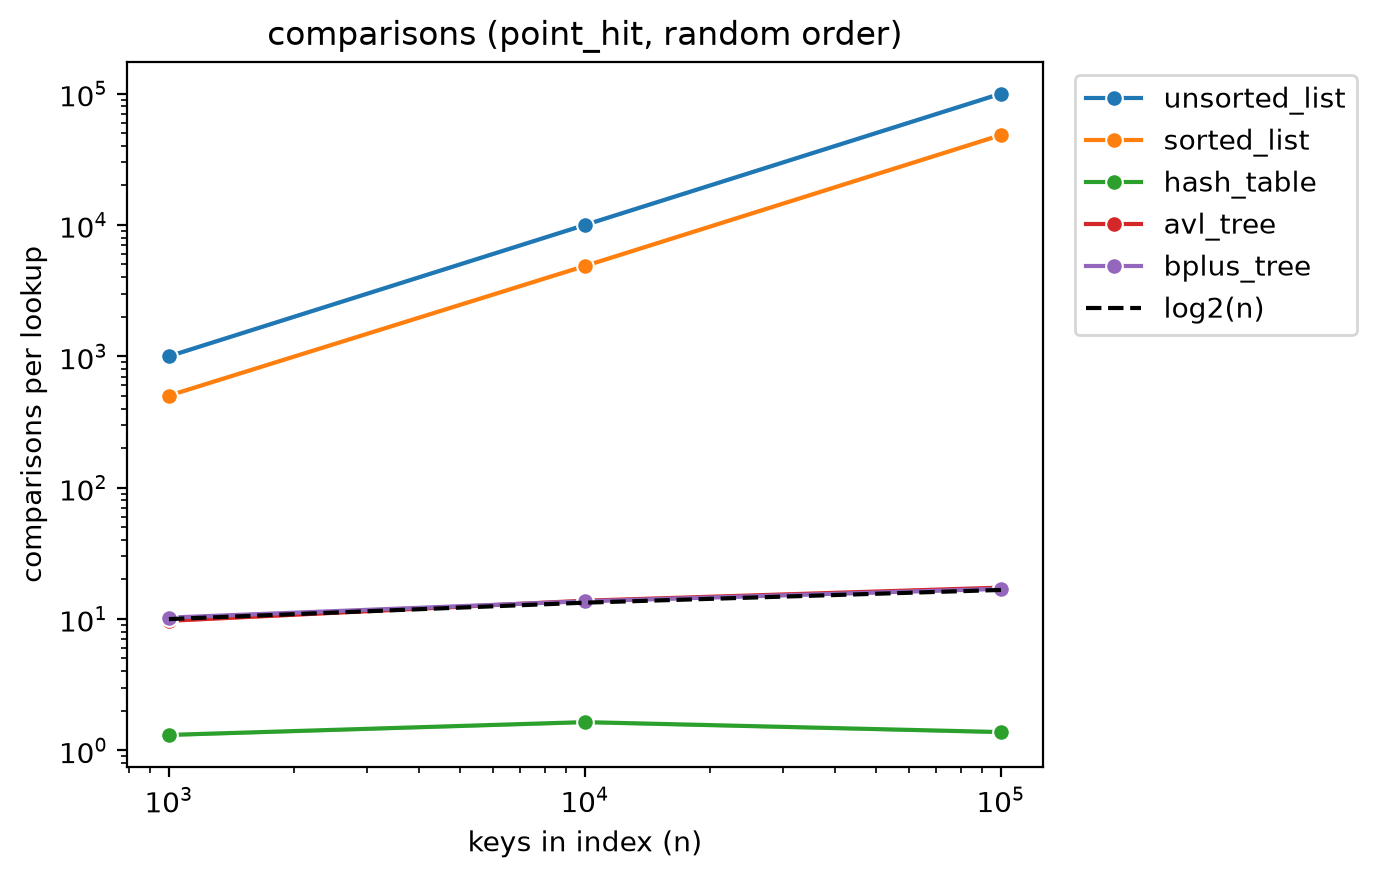
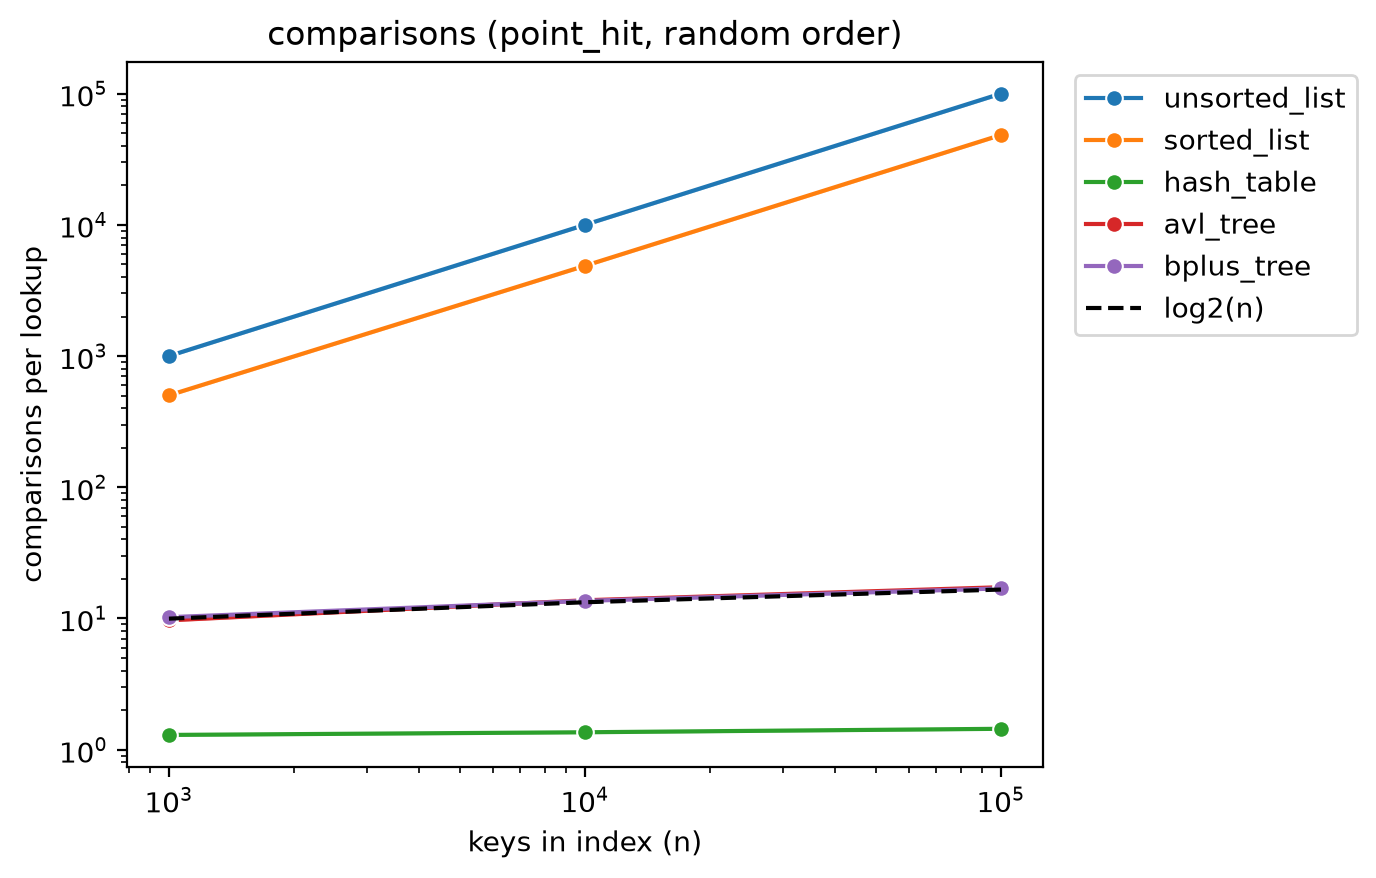
Add INC-04 (sorted list search); update INC-02 with nearly sorted rerun

diff --git a/incident_reports/INC-04.md b/incident_reports/INC-04.md
@@ -1,0 +1,56 @@
+# INC-04: Sorted list search scans linearly instead of using binary search
+
+## Summary
+
+In `indexes/sorted_list.py`, the `search` method walked the list from the first key and compared each key in turn, even though the keys are sorted and the class already has a binary search, `_bisect_left`, that `insert` and `range_search` use. A point lookup therefore cost about n/2 comparisons (48,390 at n = 100,000) instead of about log2(n) (16.7), and took about 3.6 milliseconds per lookup at that size, as slow as the unsorted list. Replacing the loop with a call to `_bisect_left` fixed it: lookups now take 16.69 comparisons and about 3 to 4 microseconds at n = 100,000, roughly 1,000 times faster. Results were correct before and after, which is why the tests did not notice.
+
+## Detection
+
+Experiment E5 (insert order), in the point-lookup plot and the counters plot. On the log-log point-lookup plot, the `sorted_list` line rose together with `unsorted_list`: about 70 microseconds at n = 1,000, about 360 at n = 10,000 and about 3,700 at n = 100,000, a slope of about 1. The reference `ref_bisect`, which does the same job with Python's C-backed binary search, stayed near 0.5 to 1 microsecond. The `comparisons` plot then showed why: the `sorted_list` line ran at about n/2 comparisons per lookup, while AVL tree and B+ tree sat on the dashed log2(n) line.
+
+## Expected vs. observed
+
+Theory: binary search over a sorted array costs O(log n), about log2(n) comparisons per lookup: 10.0, 13.3 and 16.6 at n = 1,000, 10,000 and 100,000.
+
+Observed on the original code (E5, code `9174a5c`, point lookups that all hit, median over 5 replicates), identical in all four insert orders because the list is sorted whatever order the keys arrive in:
+
+- n = 1,000: 501.92 comparisons per lookup, about 65 to 79 microseconds
+- n = 10,000: 4,872.87 comparisons per lookup, about 355 microseconds
+- n = 100,000: 48,390.08 comparisons per lookup, about 3,580 to 3,680 microseconds
+
+That is about n/2 comparisons, the average position of a key that is present, so the lookup was a linear scan.
+
+## Evidence
+
+- Counters plot, comparisons per lookup against n with the log2(n) line, before the fix (random order): ![comparisons per lookup before the fix](../analysis/e5_countervstiming_comparisons.png)
+- Table of lookup time and comparisons per lookup, before (`9174a5c`) and after (`23e3aa3`) the fix, for every insert order and size: ![sorted list point lookups before and after](../analysis/e5_sorted_list_pointlookups.png)
+- Machine `saariya-mbp`. The `sorted_list.py` file is the original in `9174a5c`, since the earlier fixes touched other files.
+
+## Root cause
+
+File `indexes/sorted_list.py`, method `search` (about lines 53 to 65).
+
+`search` looped over `self._keys` with `enumerate`, counting a comparison for each key, and returned when the key matched. The comment above it says that because the keys are sorted it can stop once it has passed the place where the key would be, and the loop has a `break` for that. That is true, but it only helps a lookup for a missing key near the front: a lookup for a key that is present still examines every key before it, so it costs its position in the list, about n/2 on average.
+
+The class already has `_bisect_left`, which finds the position in about log2(n) steps, and `insert` and `range_search` both use it. Only `search` did not. The answers were correct, only slow, and the class docstring even claims the list is searched with binary search, so reading the code quickly would not reveal the problem.
+
+## Fix
+
+Commit `23e3aa3`, "Fix sorted list search: use binary search instead of a linear scan". The loop in `search` is replaced by one call to `_bisect_left` to find the position where the key would be, followed by one check whether the key stored at that position is the one asked for; if it is, `search` returns its values, otherwise it returns an empty list. Nothing else in the file changed.
+
+## Verification
+
+Same experiment (E5), same machine, same seeds, two code versions: `9174a5c` (before) and `23e3aa3` (after), shown in the table image above. Median over 5 replicates, at n = 1,000 / 10,000 / 100,000:
+
+- Comparisons per lookup: 501.92 / 4,872.87 / 48,390.08 before, and 9.98 / 13.34 / 16.69 after. The after values match log2(n) (10.0, 13.3, 16.6), in every insert order.
+- Time per lookup: about 65 to 79 / 355 / 3,580 to 3,680 microseconds before, and about 1.5 / 2.0 / 3.1 to 3.8 microseconds after.
+
+At n = 100,000 the lookup is about 960 to 1,190 times faster depending on the insert order (nearly sorted 1,190x, random 1,120x, reversed 1,110x, sorted 960x), and the time per lookup now grows only from about 1.5 to about 3.2 microseconds over a hundredfold increase in n, as an O(log n) structure should. `make test` still passes (168 passed, 3 skipped).
+
+## Impact on recommendations
+
+With the bug, the sorted list looked exactly as slow as the unsorted list for point lookups (both linear), so it would have been ranked with the unsorted list and dismissed for the point-lookup feature (F1). After the fix its lookups cost about the same order as the trees (log n) and are only a few microseconds at n = 100,000. The trade-off that the bug was hiding is unchanged by the fix: inserting into the middle of a Python list shifts every later key, so building a sorted list from random or reversed input still costs more per insert as n grows, while the trees and the hash table do not. So after the fix the sorted list is a competitive choice for point lookups and ranges on data that is loaded once and read many times, but not for workloads that insert heavily. This should be checked against the F1 and F3 recommendations once the final runs are in.
+
+## Why the tests didn't catch it
+
+The tests check that `search` returns the right values, and the linear scan does. The bug affects only how many comparisons and how much time a lookup takes. A test that would catch it: build a sorted list of several thousand keys, reset the statistics, look up a key and assert that the number of comparisons is at most about 2 x log2(n), not n/2.

diff --git a/incident_reports/INC-02.md b/incident_reports/INC-02.md
@@ -2,7 +2,7 @@
 
 ## Summary
 
-In `indexes/avl_tree.py`, both rotation functions refreshed node heights in the wrong order, so the stored heights were too large. As a result the AVL tree performed about 10 to 15 rotations per insert instead of about 1, and it grew taller than a valid AVL tree can be (height 26 for 100,000 keys, against a limit of about 24). Lookups still returned correct results, which is why the tests did not notice. Swapping two `_update_height` calls in each rotation fixed it: rotations per insert dropped to about 0.7 to 1.2 and the height to 17 to 20. Build time per insert at n = 100,000 improved for random (1.9x), reversed (1.3x) and sorted (1.4x) input; nearly sorted input measured slower in this run (see Verification), which I attribute to timing noise but have not yet confirmed.
+In `indexes/avl_tree.py`, both rotation functions refreshed node heights in the wrong order, so the stored heights were too large. As a result the AVL tree performed about 10 to 15 rotations per insert instead of about 1, and it grew taller than a valid AVL tree can be (height 26 for 100,000 keys, against a limit of about 24). Lookups still returned correct results, which is why the tests did not notice. Swapping two `_update_height` calls in each rotation fixed it: rotations per insert dropped to about 0.7 to 1.2 and the height to 17 to 20. Build time per insert at n = 100,000 improved for random (1.9x), reversed (1.3x) and sorted (1.4x) input, and nearly sorted input improved by about 1.3x once an outlier in the first post-fix run is accounted for (see Verification).
 
 ## Detection
 
@@ -55,13 +55,13 @@ Same experiment (E5), same machine, same seeds, two code versions: `9e83b18` (be
 | sorted | 21 | 17 | 11.39 | 1.0 |
 | reversed | 21 | 17 | 11.39 | 1.0 |
 
-Figure (after the fix): ![AVL counters after the fix](../analysis/e5_avl_post-fix.png)
+Figure (after the fix): ![AVL counters after the fix](../analysis/avl_after_fix.png)
 
 Rotations fell by a factor of 9 to 21, and every height is now below the bound of about 24. For sorted and reversed input the height is 17, which is the minimum possible for 100,000 keys, so those trees are perfectly balanced. The B+ tree rows did not change, as expected, since only `avl_tree.py` was modified. `make test` still passes (168 passed, 3 skipped).
 
 Build time per insert at n = 100,000 (median microseconds, 5 replicates), before (`9e83b18`) and after (`7124e22`): ![AVL build time before and after](../analysis/timings_avl_after.png). The data is also in `analysis/timings_avl_after.csv`.
 
-Three of the four orders got faster, as the lower rotation count predicts. Nearly sorted input measured about 2.7 times slower, which the counters do not explain: its rotations per op (1.2) and comparisons per op (17.2) are only slightly above the other orders, so they cannot account for a fourfold increase in time. Timing on a laptop is noisy, and the whole after-fix E5 run took 454 s against 355 s for the first run, which suggests the machine was busier or hotter during the second run. I therefore do not treat the nearly sorted slowdown as a regression, but I have not confirmed that. The final E5 rerun on a quiet machine will re-measure it; the deterministic counters above are the primary evidence for the fix.
+Three of the four orders got faster in the first run after the fix, as the lower rotation count predicts. Nearly sorted input measured about 2.7 times slower in that run (36.69 against 13.43 microseconds per insert), which the counters could not explain: its rotations per op (1.2) and comparisons per op (17.2) are only slightly above the other orders. That run also took 454 s against 355 s for the first run, which suggested a busier or hotter machine. I confirmed this by rerunning E5 twice more on the same AVL code: the nearly sorted build time at n = 100,000 came out at 10.18 microseconds (code `9174a5c`) and 10.70 microseconds (code `23e3aa3`). So the 36.69 was an outlier, and nearly sorted input is also faster than before the fix, by about 1.3x (13.43 to about 10.2 to 10.7 microseconds per insert). The deterministic counters above remain the primary evidence for the fix.
 
 ## Impact on recommendations
 
